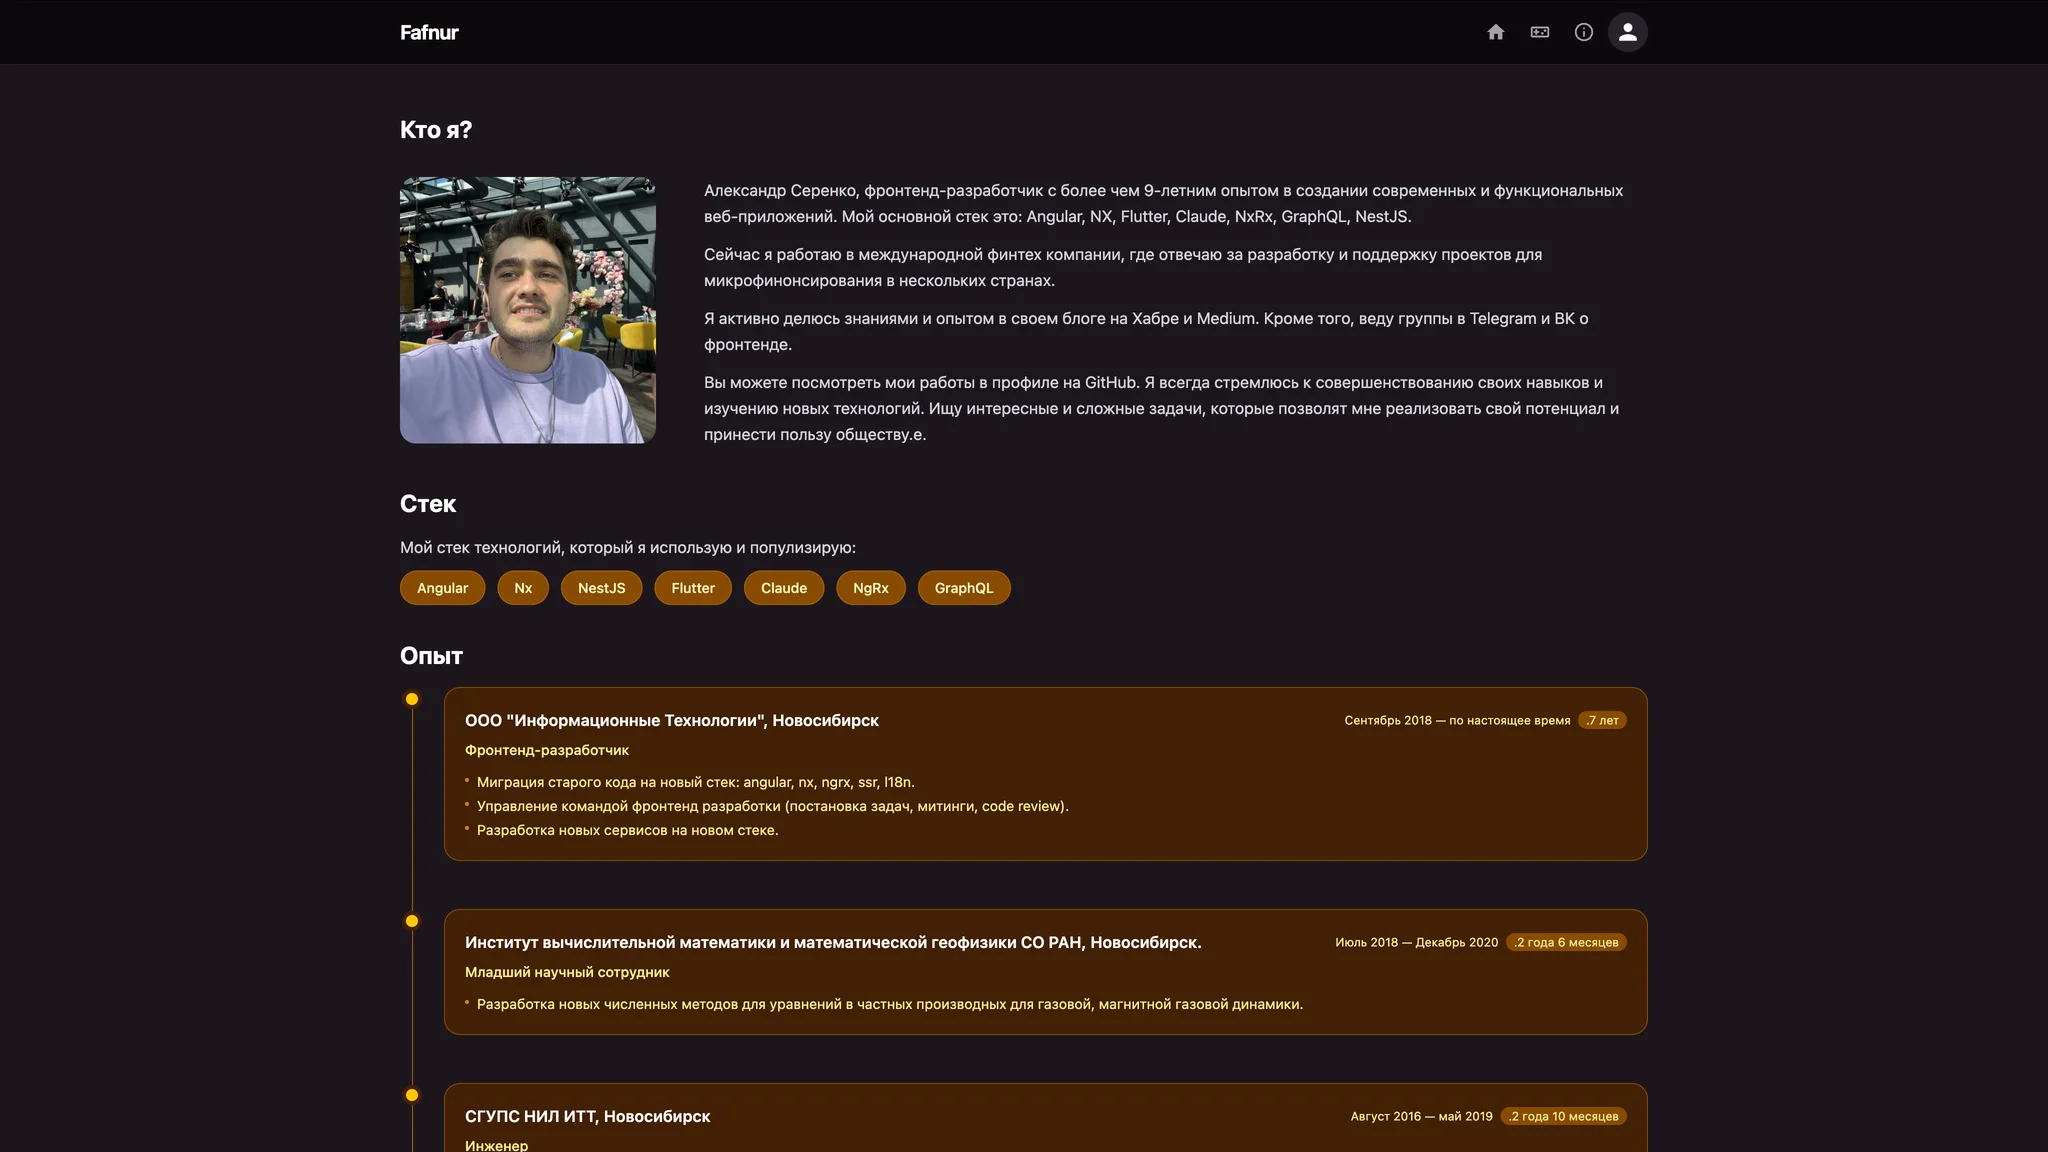
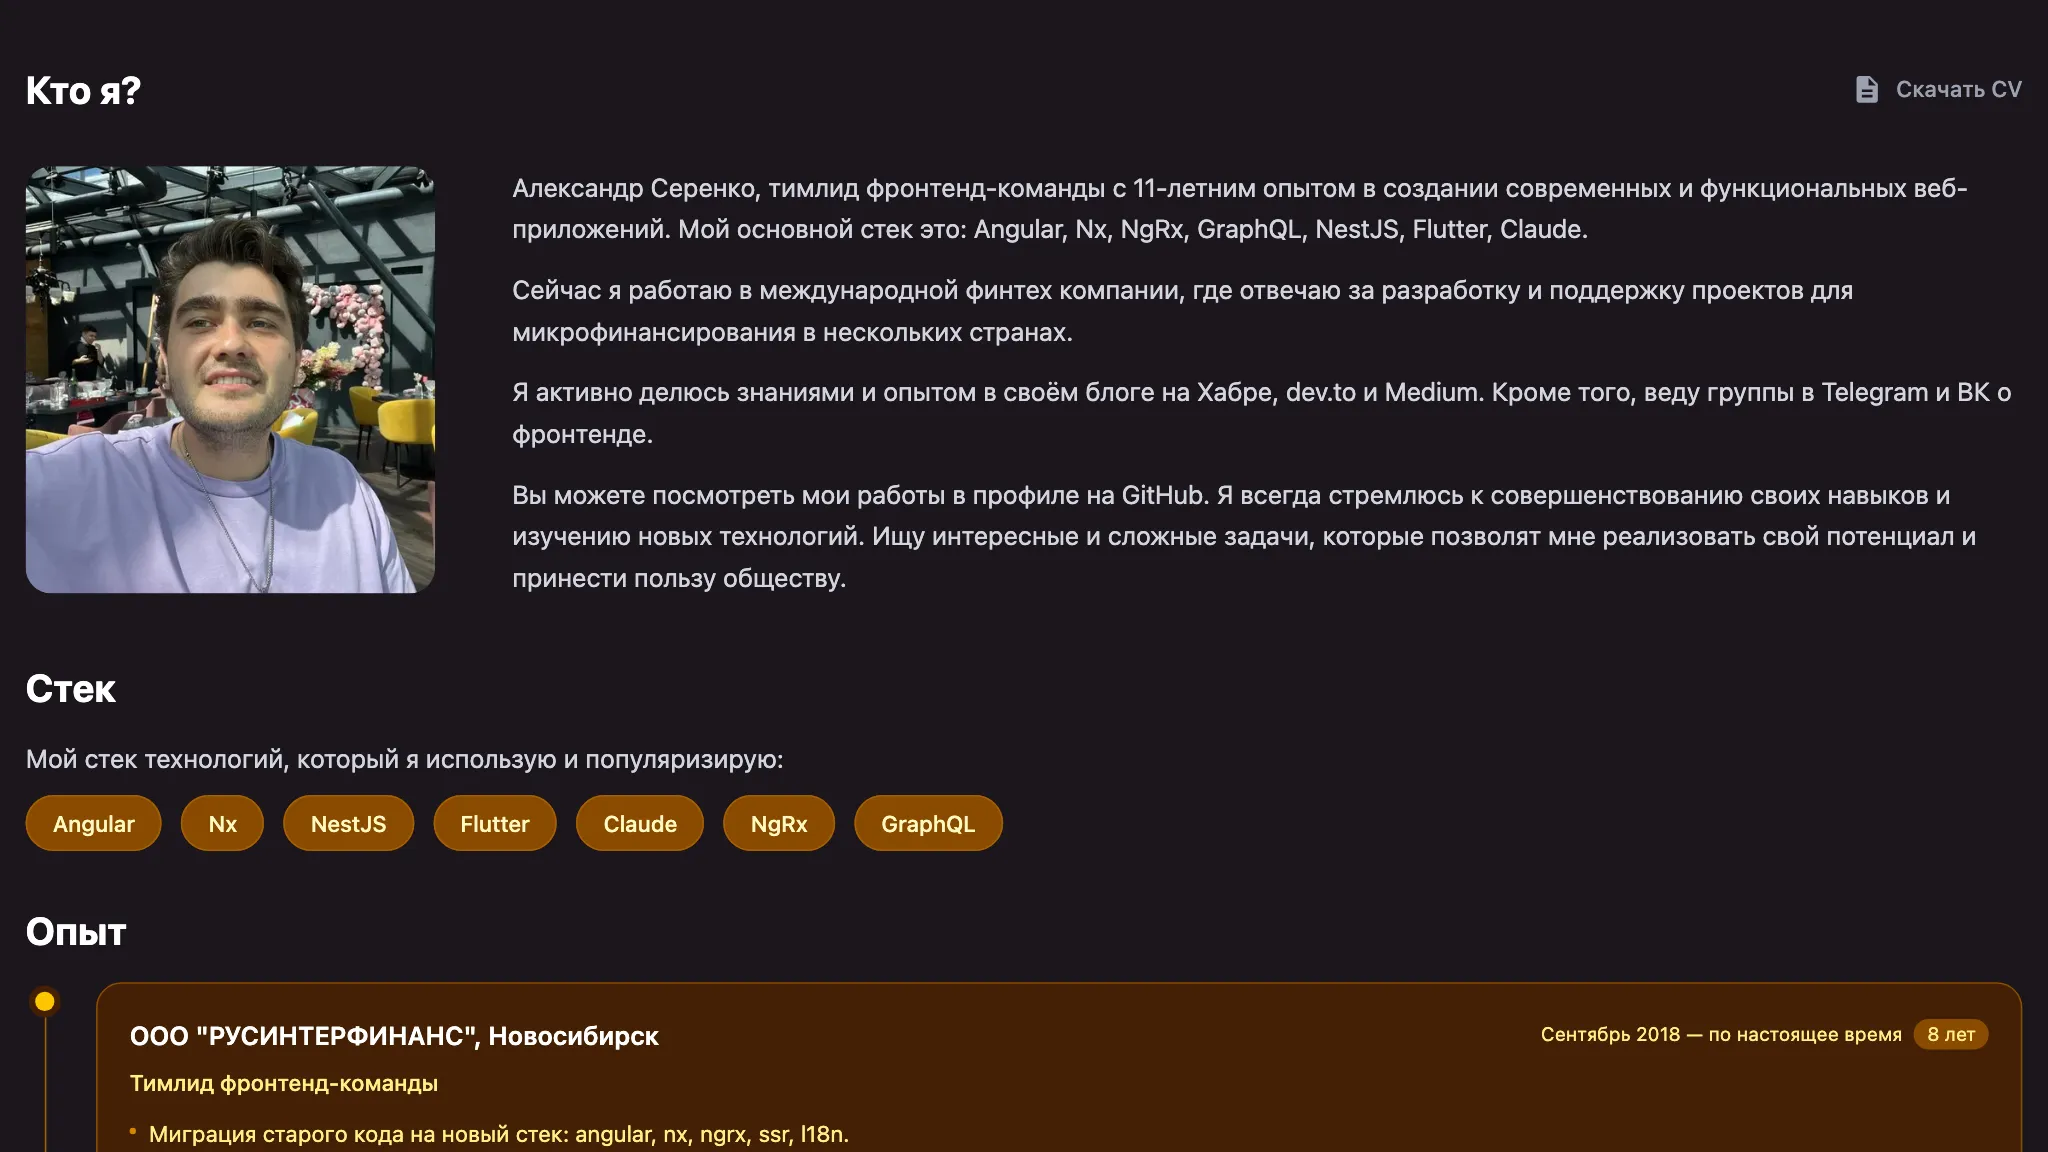
[about] Fix translations and refresh OG image
Fix the company name and typos in Russian translations, hide the dot
before the experience duration, fix l18n typo, retake about.webp.

diff --git a/libs/about/page/src/lib/about-experience/about-experience.ts b/libs/about/page/src/lib/about-experience/about-experience.ts
@@ -23,7 +23,7 @@ export class AboutExperience {
       end: $localize`:About Experience|:until now`,
       time: $localize`:About Experience|:8 years`,
       description: [
-        $localize`:About Experience|:Migrating old code to new stack: angular, nx, ngrx, ssr, l18n.`,
+        $localize`:About Experience|:Migrating old code to new stack: angular, nx, ngrx, ssr, i18n.`,
         $localize`:About Experience|:Management of the front-end development team (setting tasks, rallies, code review).`,
         $localize`:About Experience|:Development of new services on a new stack.`,
         $localize`:About Experience|:Development of a Flutter mobile app: native authorization, cookies, in-app WebView (BLoC, get_it).`,

diff --git a/libs/about/page/src/lib/about-experience/about-experience-card/about-experience-period/about-experience-time/about-experience-time.ts b/libs/about/page/src/lib/about-experience/about-experience-card/about-experience-period/about-experience-time/about-experience-time.ts
@@ -2,7 +2,7 @@ import { ChangeDetectionStrategy, Component } from '@angular/core';
 
 @Component({
   selector: 'fafnur-about-experience-time',
-  template: '.<ng-content/>',
+  template: '<span class="sr-only">.</span><ng-content/>',
   changeDetection: ChangeDetectionStrategy.OnPush,
   host: {
     class: 'ml-1 px-2 py-0.5 rounded-full bg-yellow-100 dark:bg-yellow-800 text-yellow-700 dark:text-yellow-200',
